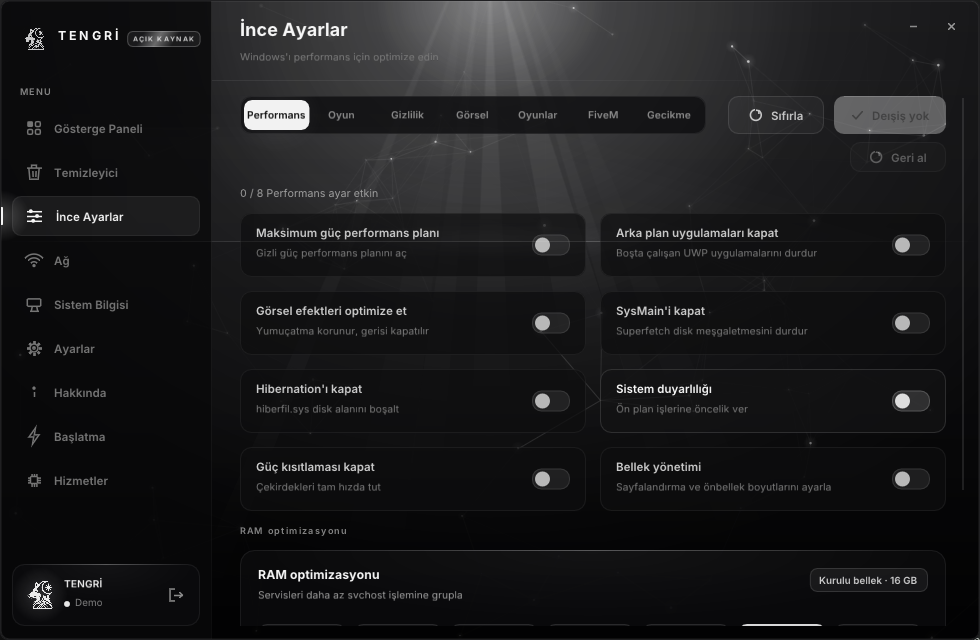
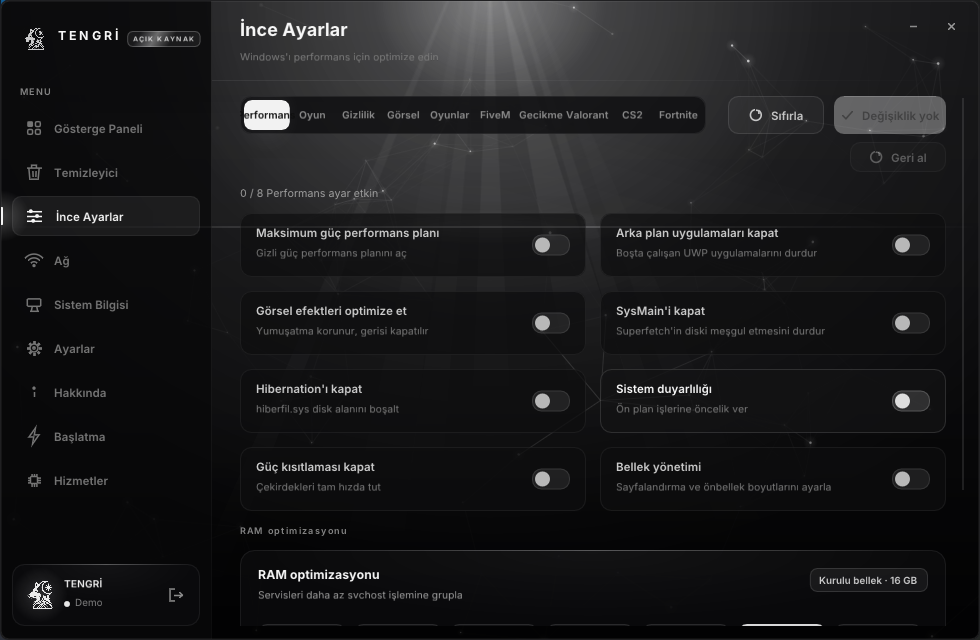
docs: on ekran goruntusu 1.6.0 derlemesinden yeniden alindi
Giris dahil on gorsel tools\capture_all.ps1 ile tek oturumda uretildi.
1.5.0 notlarindaki "ekran goruntuleri guncel degil" sinirlamasi kapandi,
README'deki ve 1.6.0 notlarindaki "iki gorsel bayat" uyarisi kaldirildi;
yerine gorsellerin hangi derlemeden alindigi yazildi.

Ikon duzeltmesi artik piksel duzeyinde dogrulanmamis degil: 07-about.png
siluetin gomulu AA maskesinden cizildigini gosteriyor.

Changed region(s): [[0.2449, 0.1562, 0.7041, 0.2188], [0.7041, 0.5, 0.8265, 0.5312]]

diff --git a/docs/release-notes/v1.6.0.md b/docs/release-notes/v1.6.0.md
@@ -73,6 +73,17 @@ taşıyanı ve BOM'suz `.ps1`i raporluyor. CI'da derlemeden hemen sonra çalış
 bozuk metin artık üretilmiş olsa bile yayına giremez. Betiğin kendi kodlaması da aynı
 denetimden geçiyor.
 
+### On görsel 1.6.0'dan yeniden alındı
+
+`docs/screenshots/` altındaki on görüntü (giriş dâhil) bu sürümün yerel derlemesiyle,
+`tools\capture_all.ps1` içinde **tek oturumda** üretildi; 1.5.0 notlarındaki "ekran
+görüntüleri güncel değil" sınırlaması böylece kapandı. Aynı oturumda üretilmeleri
+rastgele değil: sayfa sayfına ayrı çalıştırılan betikler arasında arayüz durumu
+kayabildiği için, bir zamanlar aynı dizine iki farklı arayüz düşmüştü.
+
+Gecikme grafiği boş çıkmasın diye Ağ ekranı diğerlerinden uzun bekletiliyor (örnekler
+iki saniyede bir düşüyor); görseldeki çizgi bu yüzden dolu.
+
 ### Ölçülen rakamlar
 
 | | Değer |
@@ -100,15 +111,13 @@ dosyalarına dokunmuyor.
 
 ### Bilinen sınırlar
 
-- **`docs/screenshots/06-settings.png` ve `07-about.png` bayat.** İkisi bu sürümdeki
-  yeniden kurulumdan önce alındı. Yerel derlemede `tools\capture_all.ps1` çalıştırılırsa
-  yenilenirler; bu sürümün notları onları güncelmiş gibi sunmuyor.
 - **Lisans ekranı demodur**: her anahtar kabul edilir, sunucuya karşı doğrulama yok.
 - **Dosya imzasız.** Autogram (Authenticode) yok; bu, antivirüs sezgisellerinin
   çalıştırılabilirleri işaretlemesinin ana nedeni.
-- İkon düzeltmesi **piksel düzeyinde doğrulanmadı**: kodlama kapısı, derleme ve beş test
-  paketi çalıştırıldı, ancak çalışan arayüzün görüntüsü alınmadı. Geometri ve renk
-  yolu koddan ölçüldü; son görsel kontrolü kullanıcıda.
+- İkon düzeltmesi **bu sürümün görsellerinde doğrulandı**: `docs/screenshots/07-about.png`
+  1.6.0 derlemesinden alındı ve bağlantı satırındaki silüet gömülü maskeden çiziliyor.
+  Doku yolu `logo::MarkReady` ile ölçüldü; üçgen yedeği yalnızca WIC doku yüklenemezse
+  devreye girdiği için bu görselde hiç çizilmedi.
 
 ### Kurulum
 

diff --git a/README.md b/README.md
@@ -219,16 +219,14 @@ Hizmetler:
 
 ![Hizmetler](docs/screenshots/09-services.png)
 
-> Dokuz görselin tamamı `tools\capture_all.ps1` ile **tek oturumda**, aynı tema ve
-> aynı DPI ile üretildi. Betiği çalıştırırsan görseller bu dizine yeniden düşer.
+> On görselin tamamı (giriş dâhil) `tools\capture_all.ps1` ile **tek oturumda**, aynı
+> tema ve aynı DPI ile üretildi. Betiği çalıştırırsan görseller bu dizine yeniden düşer.
 > Görseller gerçek bir makinede alındı: Başlatma ekranı o sistemde kurulu
 > programları, Hizmetler ekranı gerçek hizmet durumlarını gösterir.
 >
-> **İki görsel bayat:** `06-settings.png` ve `07-about.png` 1.6.0'daki Ayarlar ve
-> Hakkında yeniden düzenlemesinden **önce** alındı. İkisi de şu anki yerleşimi
-> göstermiyor — Hakkında sayfasındaki uyarı bloğu kaldırıldı, yerine meta şeridi ve
-> tıklanabilir yetenek ızgarası geldi. Yerel derlemede betiği çalıştırırsan
-> onlar da güncellenir.
+> Görseller 1.6.0 derlemesinden alındı: Ayarlar ekranında Dil artık Genel kartının
+> bölümü, Hakkında ekranı marka bloğu + meta şeridi + tıklanabilir yetenek ızgarası
+> olarak duruyor ve GitHub silüeti gömülü AA maskesinden çiziliyor.
 
 ---
 
